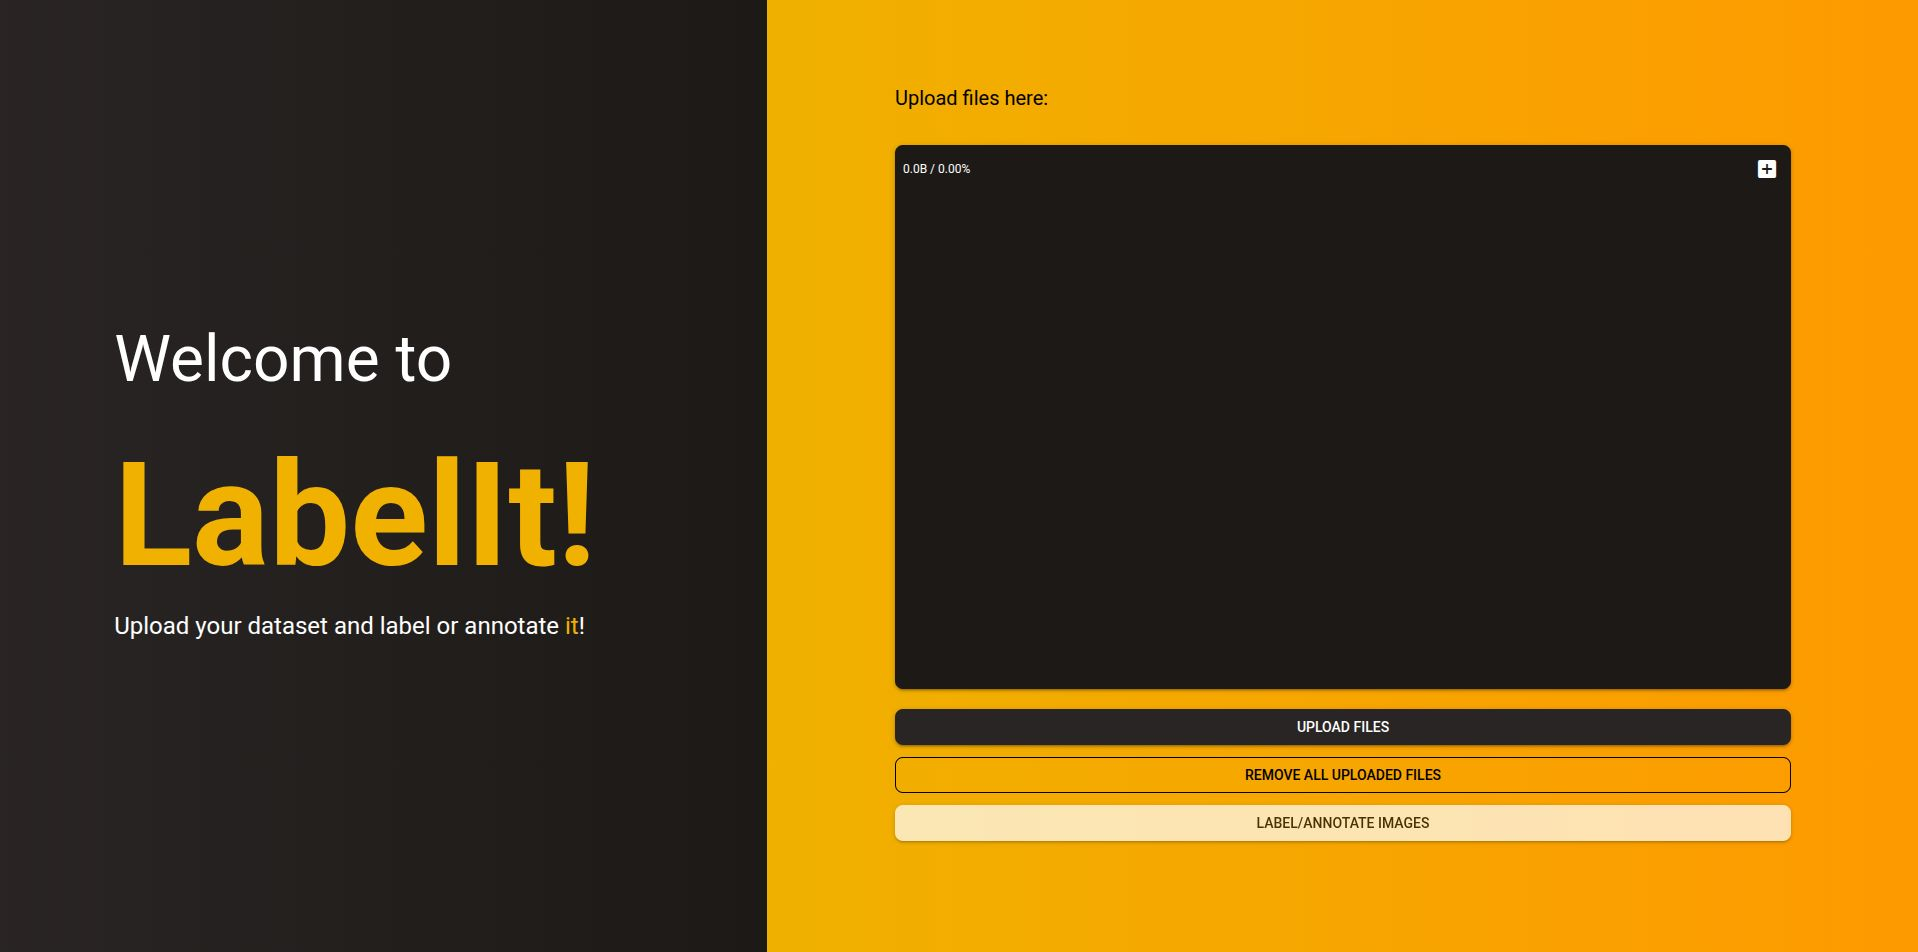
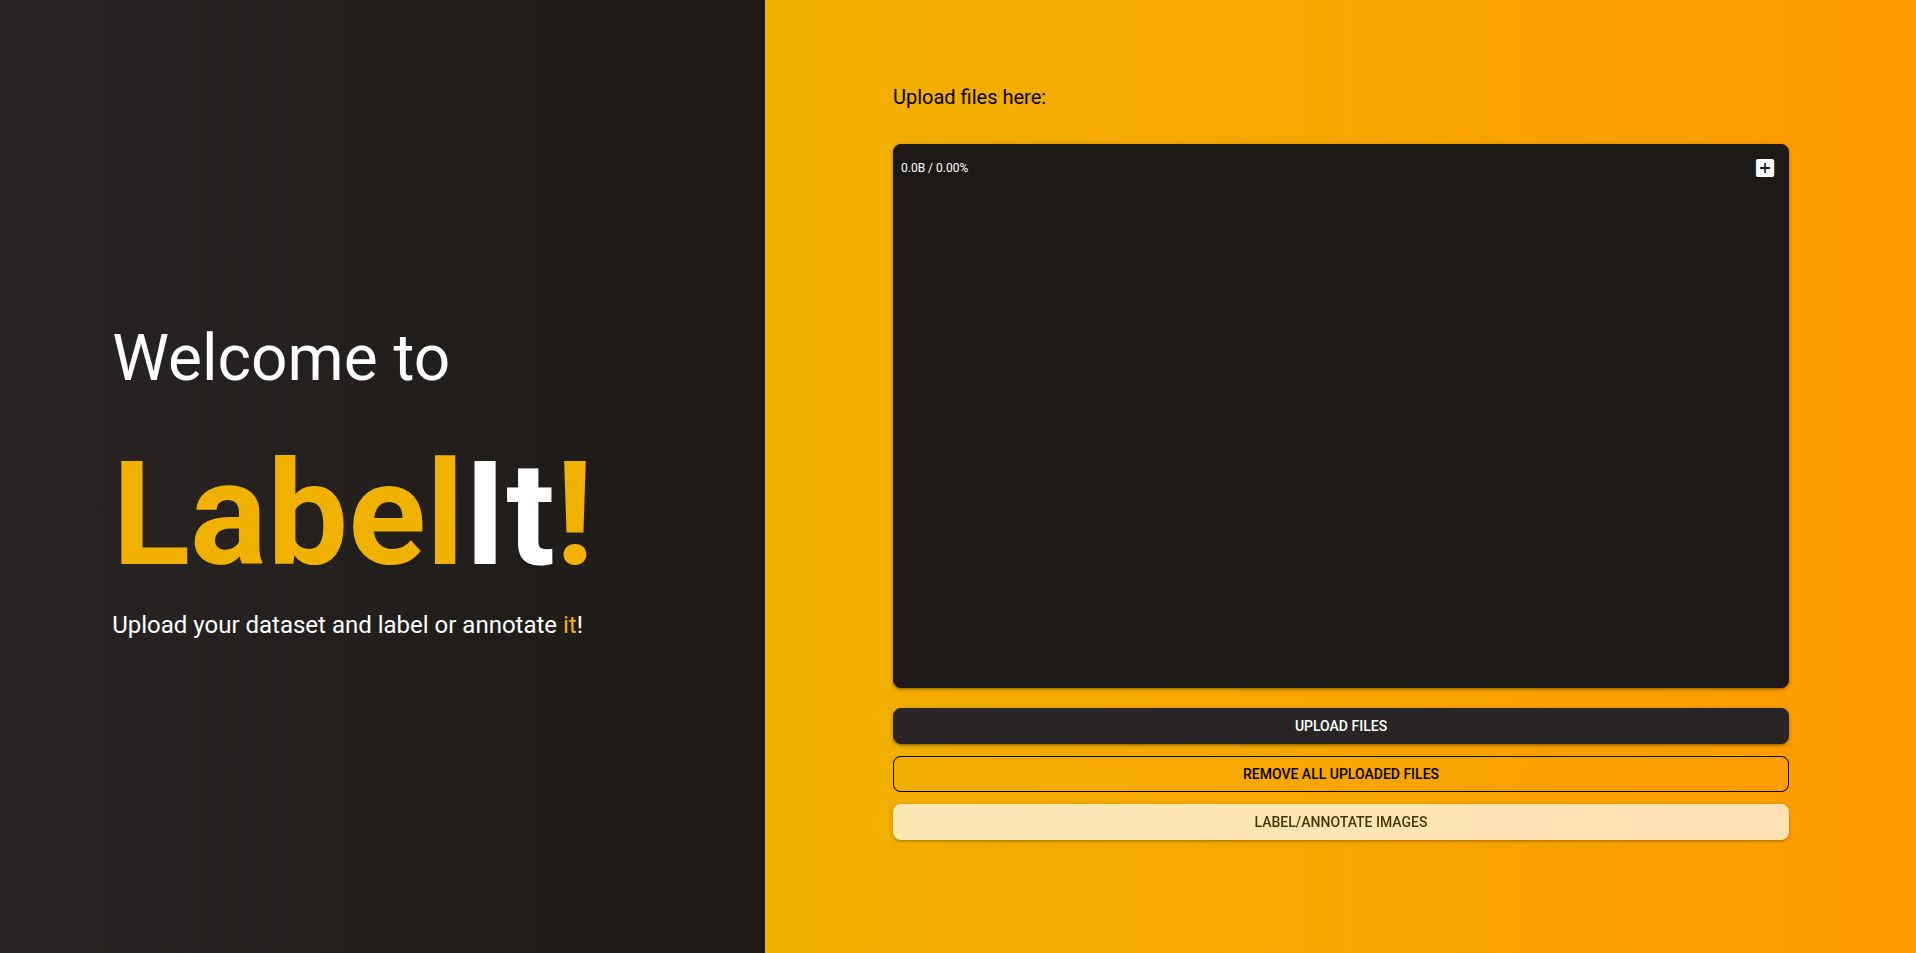
fixed adding same images

diff --git a/pages/home/homePage.py b/pages/home/homePage.py
@@ -22,10 +22,17 @@ def homePage():
 
 
         uslessFiles=[]
+        imgDuplicates=[]
         for file in e.files:
             if file.content_type=='image/jpeg' or file.content_type=='image/png': 
- 
-                  state.files.append( DatasetImage(await file.read(), file.name,file.content_type))
+                duplicate = any(
+                image.name.casefold() == file.name.casefold()
+                for image in state.files
+                )
+                if duplicate:
+                    imgDuplicates.append(file)
+                else:
+                    state.files.append( DatasetImage(await file.read(), file.name,file.content_type))
             elif file.content_type=='text/csv':
                 csvFiles.append(file)
             elif file.content_type=='text/plain':
@@ -33,12 +40,13 @@ def homePage():
                 fileData= await utils.readTXTFile(file)
                 labelsData.append(fileData)
             else:
-                print('useless!')
                 uslessFiles.append(file)
+        # for file in imgDuplicates:
+        #     e.sender.remove_upload(file)
         usefullFiles=len(state.files)+len(csvFiles)+len(labelsData)#+len(jsonClasses)
         uslessFilesAmount=len(uslessFiles)
-        for uf in uslessFiles:
-            e.sender.remove_upload(uf)
+        # for uf in uslessFiles:
+        #     e.sender.remove_upload(uf)
         del e.files    
         if uslessFilesAmount>0:
            ui.notify(f'{uslessFilesAmount} files rejected becasue of bad extension',  classes='bg-red-700')
@@ -64,6 +72,11 @@ def homePage():
 
             ui.html('<style>.multi-line-notification { white-space: pre-line; }</style>', sanitize=False)
             ui.notification(notifyStr, multi_line=True,classes='bg-white text-black multi-line-notification', html=True, timeout=15.0)
+        if len(imgDuplicates)>0:
+            ui.notify(
+                f'{len(imgDuplicates)} files skipped because their names already exist',
+                classes='bg-white text-black',
+            )
 
 
 
@@ -83,7 +96,7 @@ def homePage():
                    ui.html(''' <div class="w-[80%] text-white text-[64px]  h-full">
                    Welcome to 
                    <strong class="text-[144px] mb-0">
-                       <span class="text-yellow-500  mb-0">Label</Labelspan>It<span class="text-yellow-500  mb-0">!</span>
+                       <span class="text-yellow-500  mb-0">Label</span>It<span class="text-yellow-500  mb-0">!</span>
                    </strong>
                     <br/><div class="text-[24px] subtitle -mt-4">Upload your dataset and label or annotate <span class="text-yellow-500">it</sapn><span class="text-white">!</sapn></div>
                    </div>''', sanitize=False)
@@ -96,6 +109,7 @@ def homePage():
             ui.button('Upload files ', on_click=lambda: upload.run_method('upload')).classes('w-full rounded-lg mt-5 items-center text-white bg-stone-800').props('color=stone')
             ui.button('Remove all uploaded files ',on_click=clearHandler).classes('w-full rounded-lg mt-3 items-center').props(' outline color=black')
             goLabelButton = ui.button('Label/Annotate images ', on_click=lambda: ui.navigate.to('/workspace')).classes('w-full rounded-lg mt-3 mb-8 bg-white text-black')
-            goLabelButton.disable()
+            if len(state.files)==0:
+                goLabelButton.disable()
 
        
